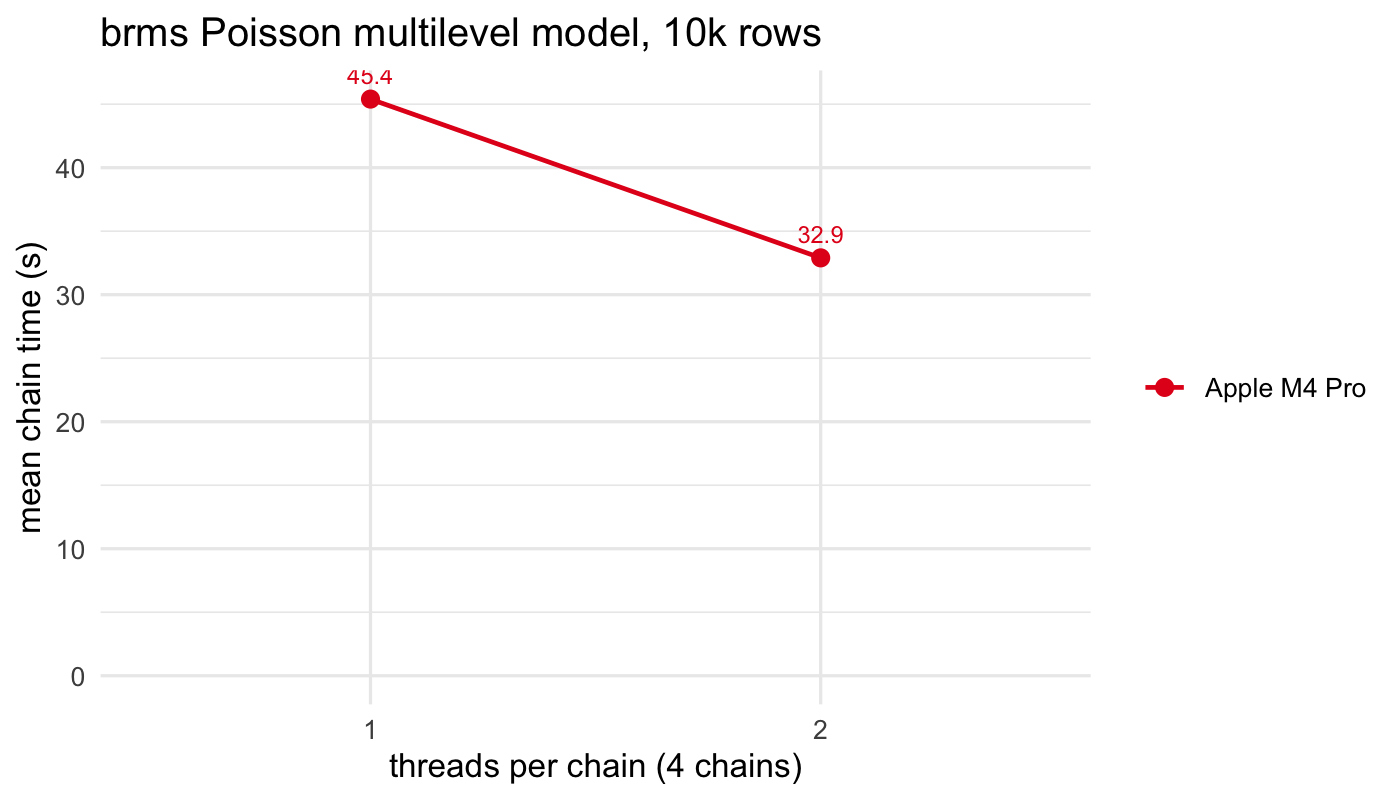
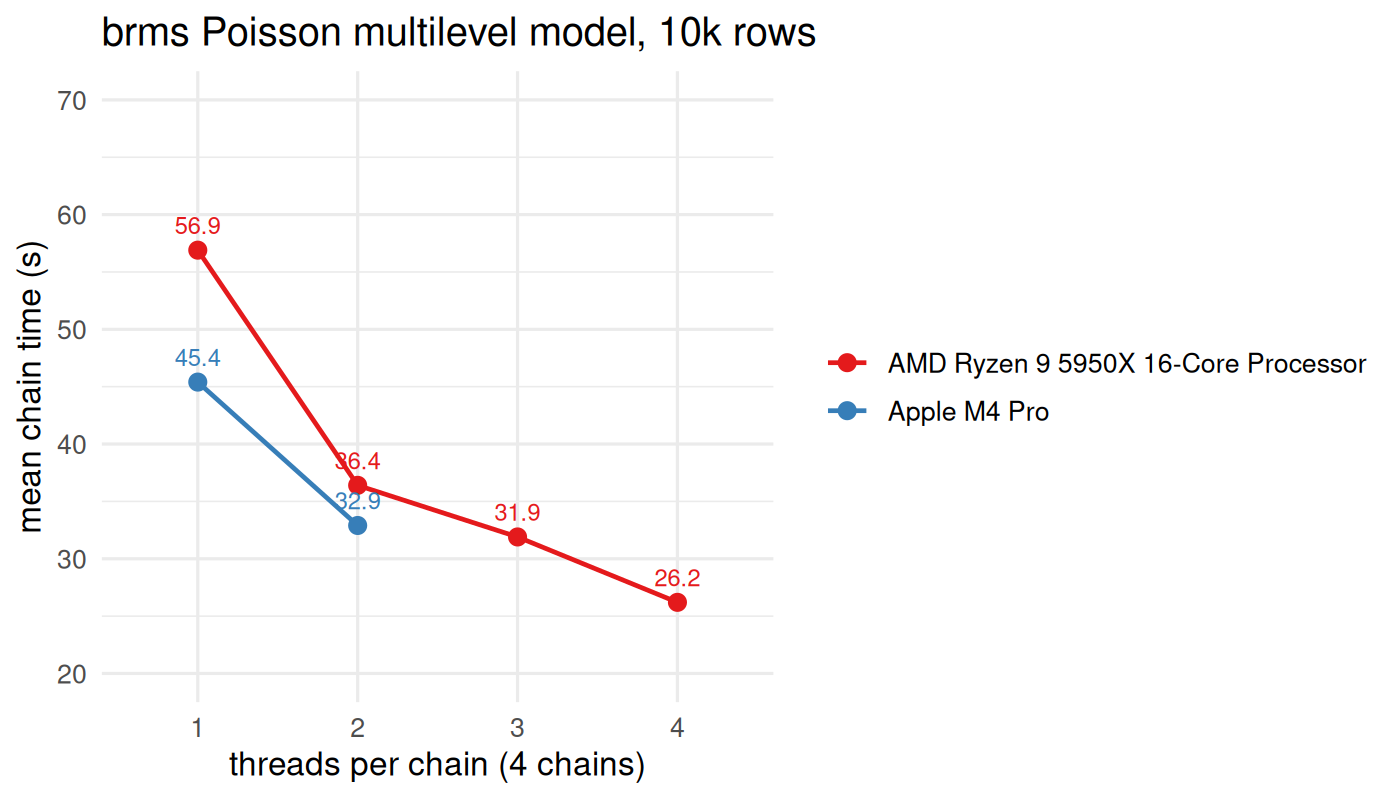
Results for Ryzen

diff --git a/README.md b/README.md
@@ -100,9 +100,10 @@ This measures end-to-end sampling time for a standard call.
 Mean chain time in seconds; the lowest of the replicate runs is shown
 (the cached run). Speed-up relative to `threads = 1` in parentheses.
 
-| machine      | 1 thread |      2 threads |
-|:-------------|---------:|---------------:|
-| Apple M4 Pro |   45.4 s | 32.9 s (1.38×) |
+| machine | 1 thread | 2 threads | 3 threads | 4 threads |
+|:---|---:|---:|---:|---:|
+| AMD Ryzen 9 5950X 16-Core Processor | 56.9 s | 36.4 s (1.56×) | 31.9 s (1.78×) | 26.2 s (2.17×) |
+| Apple M4 Pro | 45.4 s | 32.9 s (1.38×) |  |  |
 
 ![](figures/unnamed-chunk-5-1.png)<!-- -->
 
